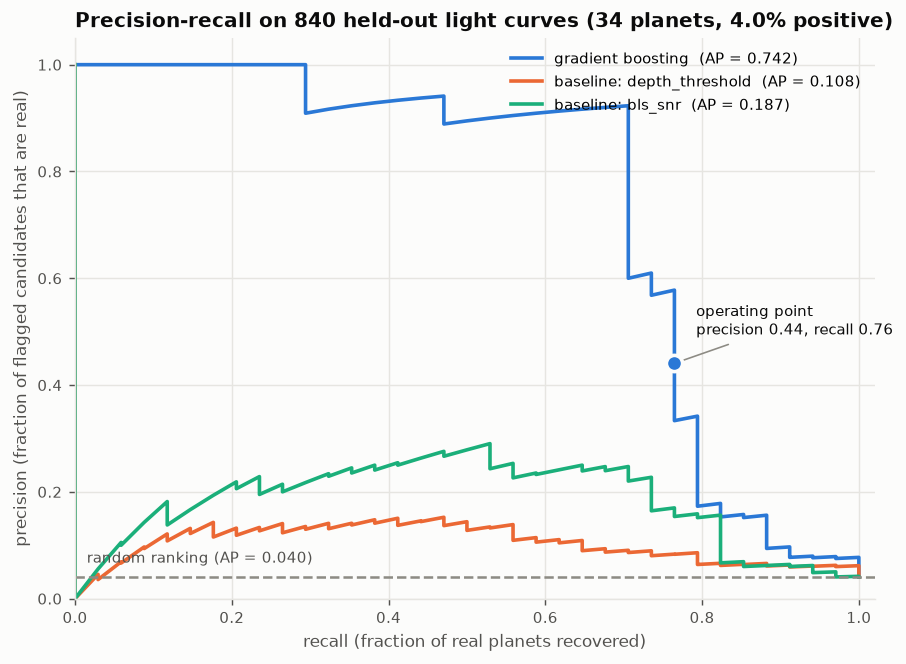
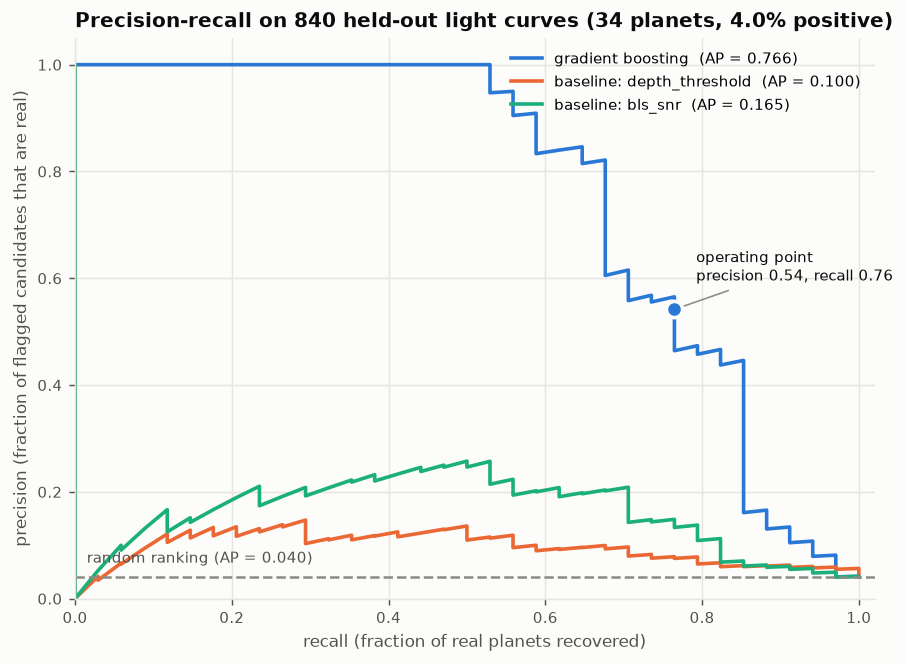
Rerun the TLS pipeline on main's masked detrend
TLS as the search now scores average precision 0.77 [0.70, 0.83] on the
default seed, against 0.80 [0.74, 0.86] with BLS. The README comparison
is updated; BLS stays the default.

diff --git a/README.md b/README.md
@@ -607,7 +607,7 @@ TLS finds 491 periods against 485 for BLS: 15 planets only TLS finds and 9
 only BLS does. That is the direction the TLS paper reports, but a 15 to 9
 split is well within chance (p = 0.31, two-sided sign test), and TLS takes
 437 ms per light curve against 100 ms. The full pipeline with TLS scores
-average precision 0.74 [0.67, 0.82] against 0.80 [0.73, 0.86] with BLS on
+average precision 0.77 [0.70, 0.83] against 0.80 [0.74, 0.86] with BLS on
 the default seed ([`results/tls/report.txt`](results/tls/report.txt)). The
 intervals overlap, and nothing here says the template is worth four times
 the search time on this data, so BLS stays the default.
